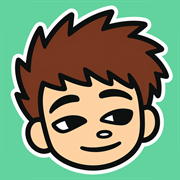
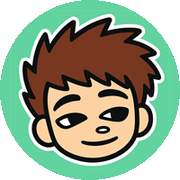
fix: social metadata - title length, description length, og image CTA (#93)
* fix: move siteTitle and description into siteConfig and fix og metadata lengths

* fix: add call-to-action text to opengraph image

* fix: use icon as og:image for messaging apps, move text card to twitter-image

* fix: circular icon with more green padding around head at 65% scale

* fix: icon at 73% scale, remove white ring via inset circle mask

* fix: adjust icon head scale to 85%

* fix: icon at 90% scale, full-radius crisp circle mask to match browser favicon size

diff --git a/src/app/layout.tsx b/src/app/layout.tsx
@@ -17,18 +17,12 @@ const geistMono = Geist_Mono({
   subsets: ["latin"],
 });
 
-const description =
-  "Leonardo Acha Boiano is a mechatronics engineer " +
-  "specializing in embedded systems, hardware-software integration, " +
-  "and robotics. Explore his engineering portfolio, projects, " +
-  "and technical writing.";
-
 export const metadata: Metadata = {
   title: {
-    default: siteConfig.name,
+    default: siteConfig.siteTitle,
     template: `%s - ${siteConfig.name}`,
   },
-  description,
+  description: siteConfig.description,
   metadataBase: new URL(siteConfig.url),
   keywords: [
     "Leonardo Acha Boiano",
@@ -45,14 +39,15 @@ export const metadata: Metadata = {
     type: "website",
     locale: "en_US",
     url: siteConfig.url,
-    title: siteConfig.name,
-    description,
+    title: siteConfig.siteTitle,
+    description: siteConfig.description,
     siteName: siteConfig.name,
+    images: [{ url: "/icon.png", width: 512, height: 512, alt: siteConfig.name }],
   },
   twitter: {
     card: "summary_large_image",
-    title: siteConfig.name,
-    description,
+    title: siteConfig.siteTitle,
+    description: siteConfig.description,
   },
   robots: {
     index: true,

diff --git a/src/lib/constants.ts b/src/lib/constants.ts
@@ -1,9 +1,15 @@
 export const siteUrl = "https://leonardoachaboiano.com";
 
+const _name = "Leonardo Acha Boiano";
+const _title = "Mechatronics Engineer";
+
 export const siteConfig = {
-  name: "Leonardo Acha Boiano",
-  title: "Mechatronics Engineer",
-  description: "Engineering portfolio of Leonardo Acha Boiano.",
+  name: _name,
+  title: _title,
+  siteTitle: `${_name} - ${_title} & Portfolio`,
+  description:
+    "Mechatronics engineer specializing in embedded systems, robotics, " +
+    "and hardware-software integration. Portfolio, projects, and technical writing.",
   url: siteUrl,
   email: "leonardoacha@hotmail.com",
 } as const;

diff --git a/src/app/twitter-image.tsx b/src/app/twitter-image.tsx
@@ -61,6 +61,17 @@ export default function Image() {
         >
           {siteConfig.url.replace("https://", "")}
         </div>
+        <div
+          style={{
+            fontSize: 18,
+            color: "#02777C",
+            fontWeight: 600,
+            marginTop: 40,
+            letterSpacing: 0.5,
+          }}
+        >
+          View portfolio →
+        </div>
       </div>
     </div>,
     { ...size },
